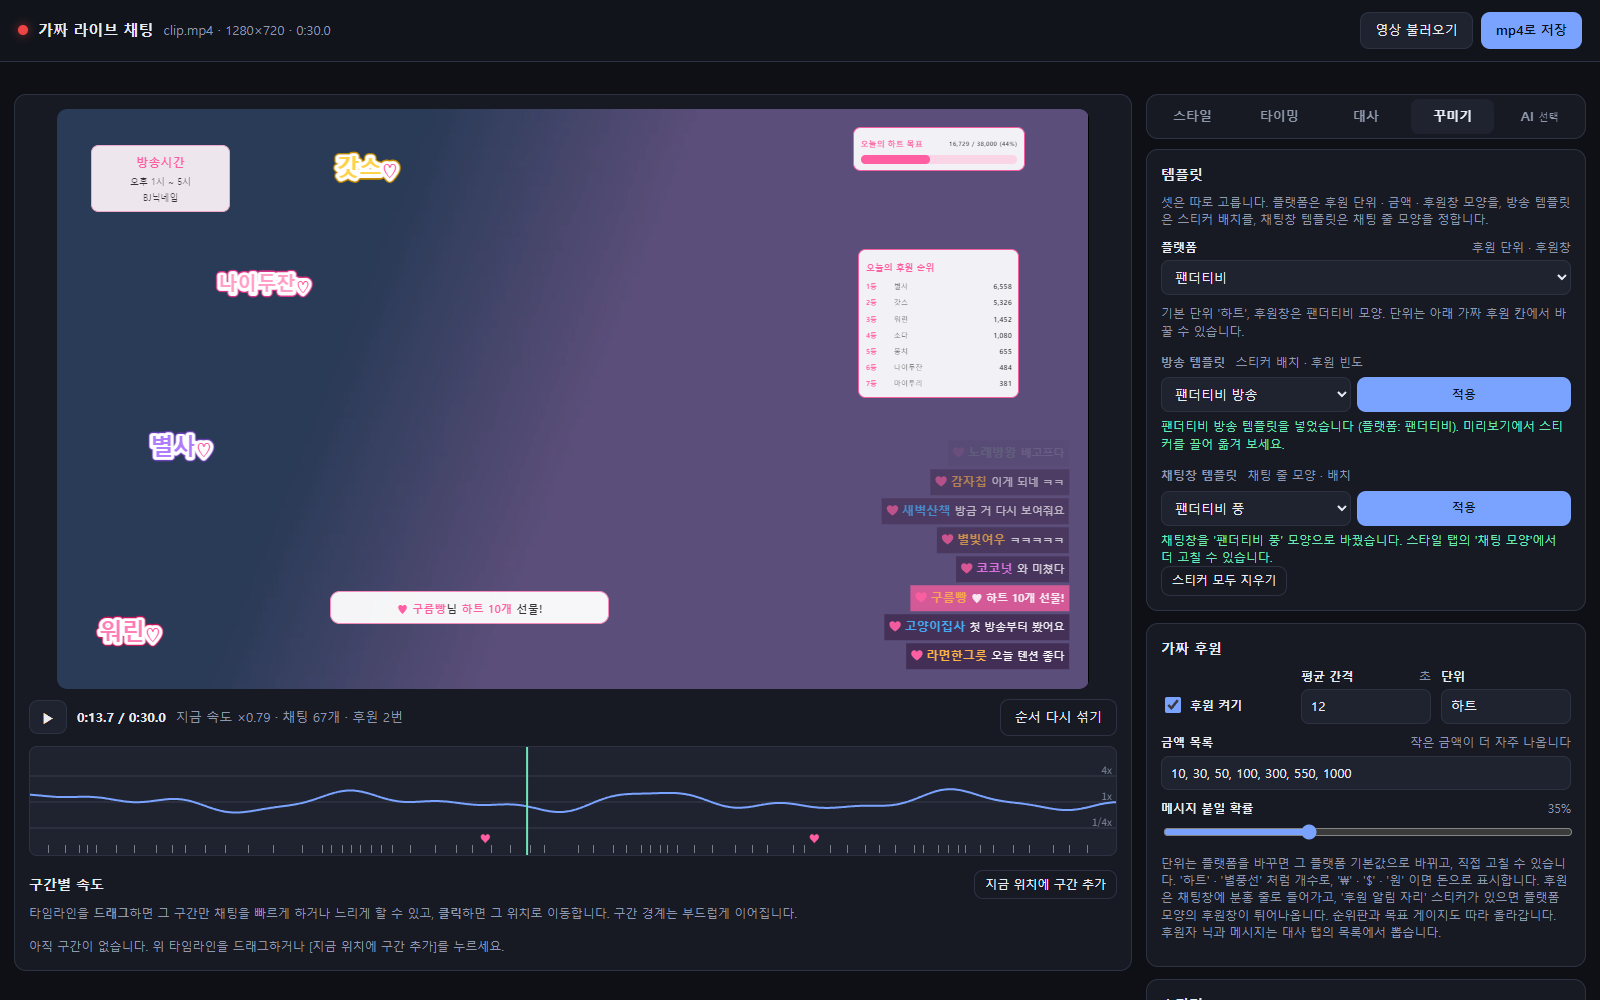
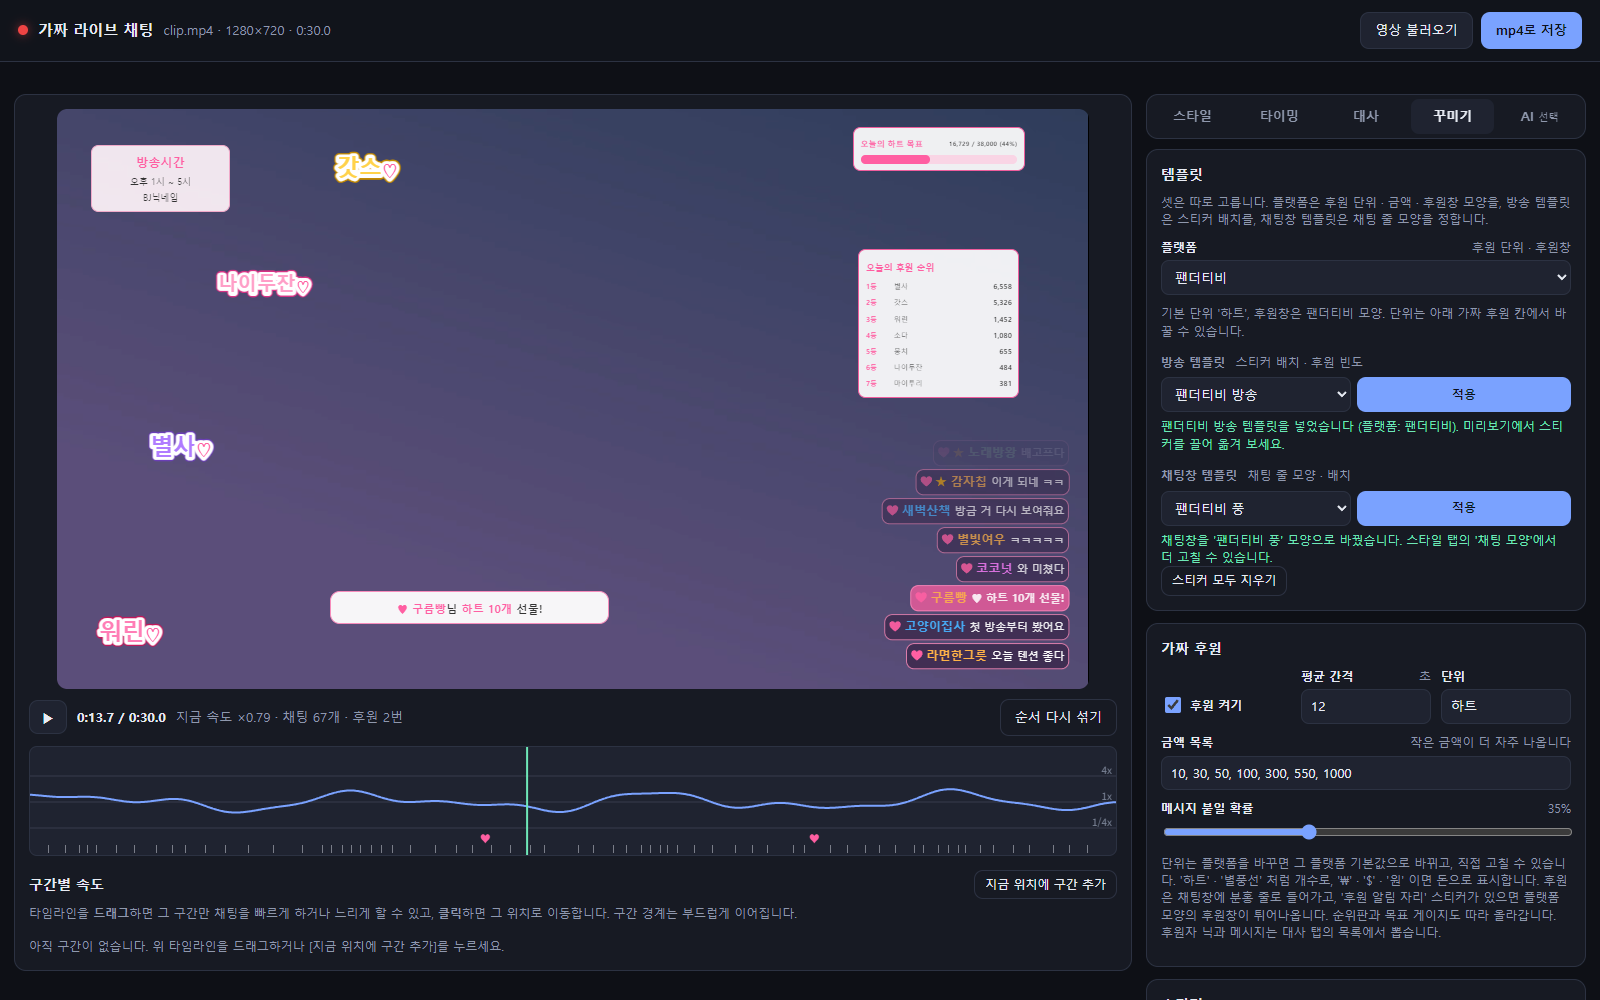
docs: README 에 박스 모양 · 닉네임 배지 설명과 스크린샷 반영

diff --git a/README.md b/README.md
@@ -55,7 +55,18 @@
   - 유튜브: ₩, 슈퍼챗
   - 플랫폼을 고르면 단위가 그 플랫폼 기본값으로 바뀌고, 그 뒤에 직접 고친 단위(예: `$`)가 우선합니다.
 - **방송 템플릿**: 스티커 배치와 후원 빈도를 정합니다. 적용할 때 어울리는 플랫폼이 같이 골라지고, 나중에 바꿀 수 있습니다.
-- **채팅창 템플릿**: 채팅 줄 모양(박스, 닉 앞 아이콘, 굵기, 줄 간격)만 바꿉니다. 스티커와 대사는 건드리지 않습니다.
+- **채팅창 템플릿**: 채팅 줄 모양(박스 모양, 닉 앞 아이콘, 굵기, 줄 간격)만 바꿉니다. 스티커와 대사는 건드리지 않습니다.
+
+### 채팅 줄 꾸미기: 박스 모양과 닉네임 배지
+| 알약 박스 채팅 | 닉네임 배지 |
+|---|---|
+| ![알약 박스](docs/screenshots/chat-pill.png) | ![배지 설정](docs/screenshots/badges.png) |
+
+- **박스 모양**: 각진 박스, 둥근 박스(모서리 px), 알약 중에서 고르고 테두리선(두께, 색)을 더할 수 있습니다. 후원 줄 박스에도 같은 모양이 쓰입니다.
+- **닉네임 배지**: 매니저, 열혈팬, 구독자 배지를 정한 비율만큼 나눠 줍니다.
+  - 닉네임으로 정하기 때문에 **같은 닉은 영상 내내 같은 배지**이고, 배지가 없는 닉은 계속 없습니다.
+  - `별빛여우 매니저`, `감자칩 없음`처럼 직접 정할 수도 있습니다.
+  - 배지 도형(방패, 하트, 별 등)은 실제 플랫폼 배지가 아니라 직접 그린 모양입니다.
 
 ### AI 대사 (선택)
 <img src="docs/screenshots/ai.png" alt="AI 탭" width="420">
@@ -90,13 +101,16 @@
 - **스티커는 기본 도형으로.** 모든 스티커와 후원창은 글자, 둥근 사각형, 그림이라는 세 가지 기본 도형 목록이 됩니다.
   - 미리보기는 이 목록을 DOM/SVG로 그립니다.
   - 결과 영상은 같은 목록을 ASS 드로잉과 ffmpeg overlay로 그립니다.
+- **둥근 박스는 브라우저가 잰 폭으로.** libass의 줄 박스는 각진 모양뿐이라, 둥근·알약 박스는 결과 영상에서 벡터 도형으로 직접 그립니다.
+  - 이때 필요한 줄마다의 글자 폭은 저장할 때 미리보기 브라우저가 같은 글꼴로 재서 함께 보냅니다.
+  - 폭 정보가 없으면 각진 박스로 돌아갑니다.
 - **미리보기 = 결과를 픽셀로 확인.**
   - 헤드리스 Chrome으로 미리보기를 캡처하고, 같은 장면을 실제로 mp4로 렌더링한 뒤 같은 시점 프레임과 비교합니다.
   - 면적 겹침 98.5%, 윤곽선 92% 이상이어야 통과합니다.
-  - 기본 채팅 모양, 템플릿 셋, 유튜브 슈퍼챗, 아프리카 카드를 각각 비교합니다.
+  - 기본 채팅 모양, 둥근·알약 박스와 배지, 템플릿 셋, 유튜브 슈퍼챗, 아프리카 카드를 각각 비교합니다.
 - **객체지향 + TDD.** 기능마다 테스트를 먼저 쓰고 구현했습니다.
-  - Python 테스트 356개: 실제 ffmpeg 렌더링과 브라우저 E2E 포함
-  - JS 테스트 126개
+  - Python 테스트 386개: 실제 ffmpeg 렌더링과 브라우저 E2E 포함
+  - JS 테스트 142개
 - **배포.** PyInstaller로 묶은 뒤 [`tools/package.py`](chat-overlay/tools/package.py)가 ffmpeg, 라이선스, 안내문을 넣고 zip을 만듭니다.
 
 ## 설치와 실행
